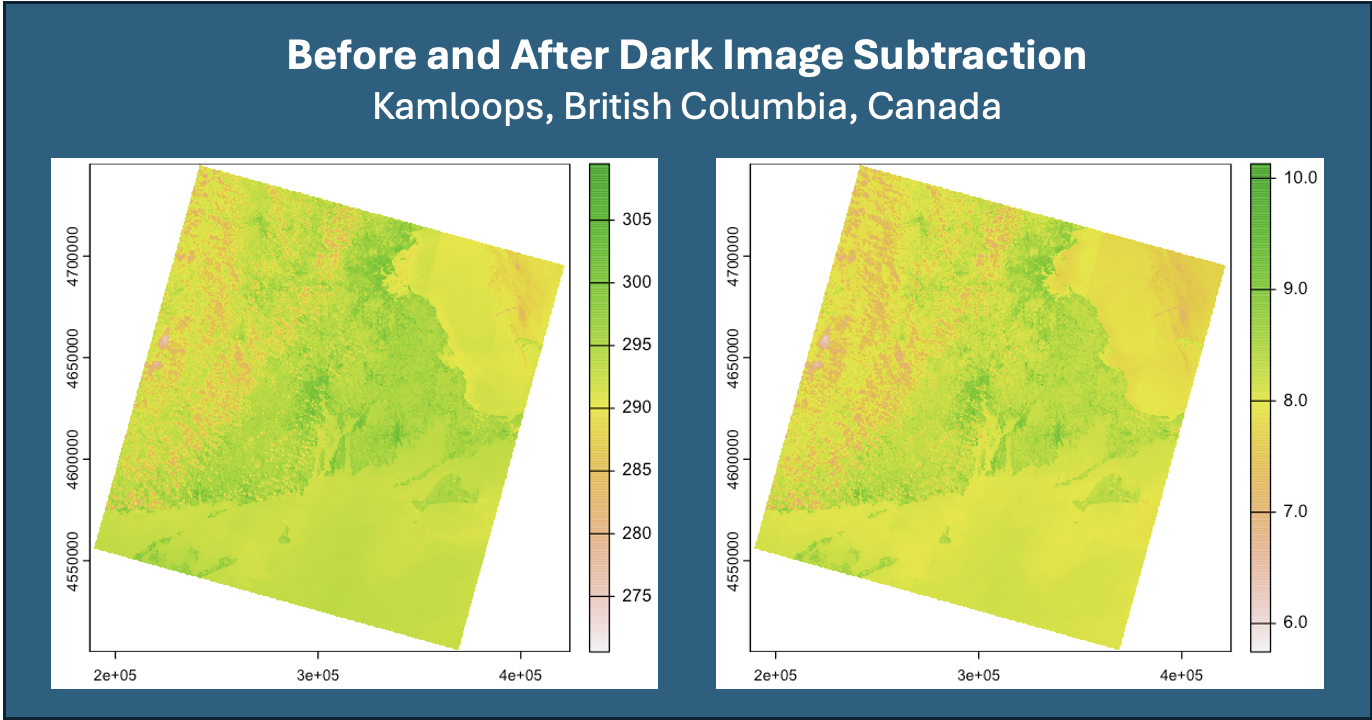
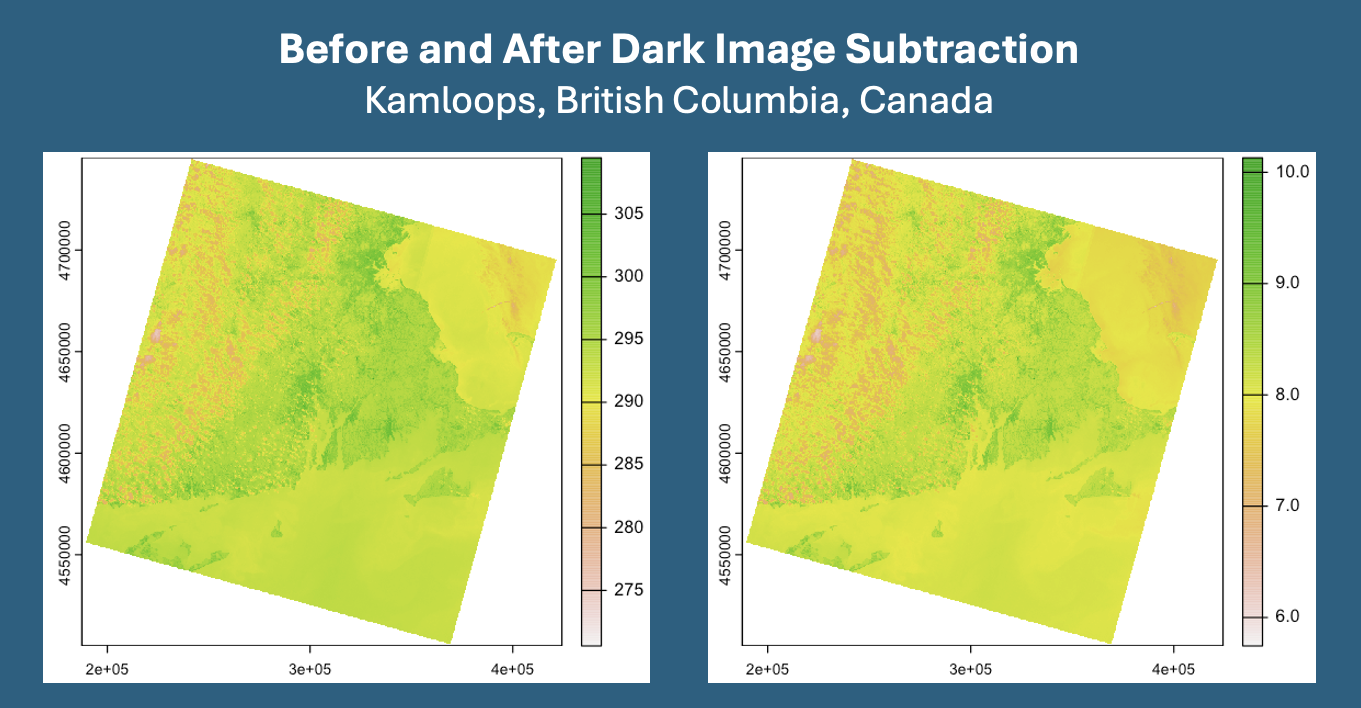
DOS first draft

diff --git a/Week3.html b/Week3.html
@@ -149,18 +149,18 @@ ul.task-list li input[type="checkbox"] {
 </div>
 </div>
 </div>
-<p>I started with an analysis of the Surface Reflectance. Below, I have identified the ‘atmosphere’ in the image the original image, before corrections:</p>
+<p>I started with an analysis of the Surface Reflectance. The first image below, is the raw Landsat image of Kamloops, BC. The second image is the same image after applying the DOS method.</p>
 <div class="cell" data-layout-align="center">
 <div class="cell-output-display">
 <div class="quarto-figure quarto-figure-center">
 <figure class="figure">
-<p><img src="img/PrePostDOS.png" class="img-fluid quarto-figure quarto-figure-center figure-img" style="width:30.0%"></p>
+<p><img src="img/PrePostDOS.png" class="img-fluid quarto-figure quarto-figure-center figure-img" style="width:70.0%"></p>
 <figcaption>Landsat image prior to and after Dark Object Subtraction</figcaption>
 </figure>
 </div>
 </div>
 </div>
-<p>After applying the DOS method, this is what we are left with. While the differences are subtle, the image is noticeably clearer. This difference becom more evident when detailed analysis conducted.</p>
+<p>After applying the DOS method, this is what we are left with. While the differences are subtle, the image is noticeably clearer. The first image is more green, there is far less variation in colour and the mountainous region on the left hand side of the image is more distinguished.</p>
 </section>
 <section id="reflections" class="level2">
 <h2 class="anchored" data-anchor-id="reflections">Reflections</h2>
